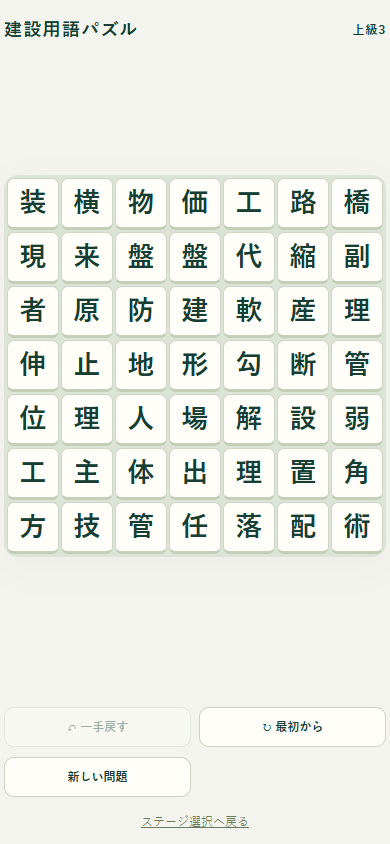
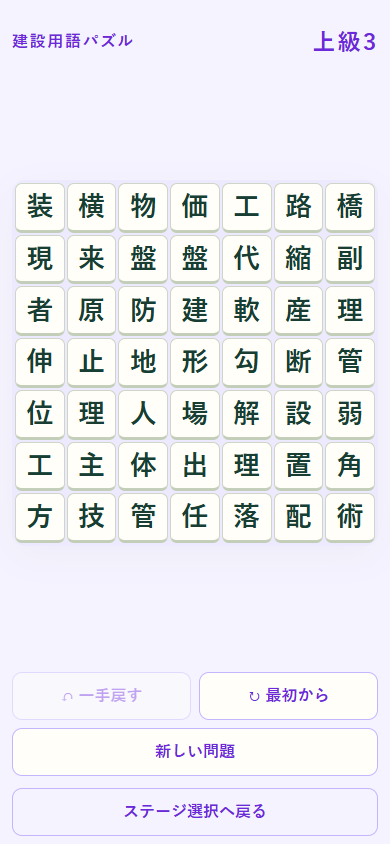
Add files via upload

diff --git a/tests/engine.test.js b/tests/engine.test.js
@@ -3,19 +3,19 @@ import {Game,initialState,resolveSwap,matches,isClear,validateStage,canSelectSta
 const dictionary=JSON.parse(fs.readFileSync(new URL('../data/terms.json',import.meta.url))),{stages}=JSON.parse(fs.readFileSync(new URL('../data/stages.json',import.meta.url)));
 const boards=['督圧丁測基転平監削量掛来筋水形張器矢掘配図準点出員','水床点土測筋工面型生準枠切施鉄点路盛養路足法盤土場','量径舗杭養面厚出盤枠路筋来法工装足施測型高鉄場図生'];
 const blank=()=>({board:Array(25).fill(null),used:{},completed:[]});
-function trial(stage,id){const g=new Game(stage,dictionary),word=Array.from(dictionary[id].word);for(const [to,c]of [[0,word[0]],[24,word[1]]]){const from=g.state.board.indexOf(c);[g.state.board[from],g.state.board[to]]=[g.state.board[to],g.state.board[from]];}const tails=Object.values(dictionary).filter(t=>t.word.startsWith(dictionary[id].word)&&Array.from(t.word).length>2).map(t=>Array.from(t.word)[2]);if(tails.includes(g.state.board[2])){const i=g.state.board.findIndex((c,i)=>i>2&&i<24&&!tails.includes(c));[g.state.board[2],g.state.board[i]]=[g.state.board[i],g.state.board[2]];}return g;}
+function trial(stage,id){const g=new Game(stage,dictionary),word=Array.from(dictionary[id].word);for(const [to,c]of [[3,word[0]],[24,word[1]]]){const from=g.state.board.indexOf(c);[g.state.board[from],g.state.board[to]]=[g.state.board[to],g.state.board[from]];}return g;}
 test('指定の初級3盤面と正解文字数・漢字個数が完全一致',()=>{assert.equal(stages.length,3);for(const [i,s]of stages.entries()){assert.deepEqual(s.initialBoard,Array.from(boards[i]));assert.deepEqual([...s.initialBoard].sort(),s.correctTerms.flatMap(id=>Array.from(dictionary[id].word)).sort());assert.equal(s.initialBoard.length,25);assert.equal(s.terms.length,s.correctTerms.length);assert.ok(s.terms.every(t=>t.term===dictionary[t.termId].word&&t.description));const g=new Game(s,dictionary);assert.deepEqual(g.state.completed,[]);assert.equal(g.history.length,0);}});
 test('3ステージ全正解ルートで全消し、全履歴を戻すと初期状態',()=>{for(const s of stages){assert.equal(validateStage(s,dictionary),true);const g=new Game(s,dictionary),initial=structuredClone(g.state);for(const a of s.solutionRoute){const r=g.move(a.from,a.to);assert.equal(r.changed,true);assert.equal(r.blocked,false);}assert.equal(isClear(g.state),true);assert.deepEqual(new Set(g.state.completed),new Set(s.correctTerms));assert.equal(g.history.length,s.solutionRoute.length);while(g.history.length)g.undo();assert.deepEqual(g.state,initial);}});
 test('初級2の路・点・土はそれぞれ2個、重複文字の交換・復元',()=>{const s=stages[1];for(const c of ['路','点','土'])assert.equal(s.initialBoard.filter(x=>x===c).length,2);const g=new Game(s,dictionary),initial=structuredClone(g.state);assert.equal(g.move(16,19).changed,false);const a=s.solutionRoute[0];g.move(a.from,a.to);g.undo();assert.deepEqual(g.state,initial);});
-test('全警告対象語の消去は残り文字を検証して拒否し、全状態を保持',()=>{for(const s of stages)for(const id of s.warningTerms){const g=trial(s,id),before=structuredClone(g.state),r=g.move(24,1);assert.equal(r.blocked,true,`${s.name}: ${id}`);assert.equal(r.changed,false);assert.deepEqual(g.state,before);assert.equal(g.history.length,0);}});
+test('全警告対象語の消去は残り文字を検証して拒否し、全状態を保持',()=>{for(const s of stages)for(const id of s.warningTerms){const g=trial(s,id),before=structuredClone(g.state),r=g.move(24,4);assert.equal(r.blocked,true,`${s.name}: ${id}`);assert.equal(r.changed,false);assert.deepEqual(g.state,before);assert.equal(g.history.length,0);}});
 test('初級2の測点は警告対象でなく正解として安全に消去',()=>{const s=stages[1],g=new Game(s,dictionary);for(const a of s.solutionRoute)g.move(a.from,a.to);assert.equal(g.state.used.surveyPoint,1);assert.equal(isClear(g.state),true);});
 test('水平器・基準点・監督員・配筋図・測量杭・鉄筋径・舗装厚・施工図の長語優先',()=>{for(const [long,short]of [['level','horizontal'],['reference','standard'],['supervisor','supervision'],['reinforcement','rebar'],['surveyStake','survey'],['rebarDiameter','steel'],['pavementThickness','pavement'],['constructionDrawing','construction']])for(const cells of [[0,1,2],[0,5,10]]){const s=blank(),word=Array.from(dictionary[long].word);s.board[cells[0]]=word[0];s.board[cells[1]]=word[1];s.board[24]=word[2];const r=resolveSwap(s,{allowedTerms:[{termId:short,maxUses:1},{termId:long,maxUses:1}]},dictionary,24,cells[2]);assert.deepEqual(r.state.completed,[long]);assert.equal(isClear(r.state),true);}});
 test('逆順・斜め・行またぎ・非連続は不成立',()=>{for(const cells of [[1,0],[5,0],[4,5],[0,6],[0,2]]){const s=blank();cells.forEach((i,n)=>s.board[i]=['丁','張'][n]);assert.equal(matches(s,stages[0],dictionary).length,0);}});
 test('複数用語の同時成立・共有マスを正しく記録し一度消す',()=>{const s=blank();s.board.splice(0,4,'丁','張','掛','矢');s.board[10]='転';s.board[24]='圧';assert.equal(resolveSwap(s,stages[0],dictionary,24,11).cleared.length,3);const t=blank();t.board.splice(5,3,'基','準','点');t.board[24]='測';const r=resolveSwap(t,stages[0],dictionary,24,2);assert.deepEqual(new Set(r.state.completed),new Set(['reference','surveyPoint']));assert.equal(isClear(r.state),true);});
 test('交換・消去・空白移動を1操作ずつ完全復元',()=>{const g=new Game(stages[0],dictionary);g.state=blank();g.state.board[0]='丁';g.state.board[24]='張';const before=structuredClone(g.state);g.move(24,1);assert.equal(g.history.length,1);assert.equal(isClear(g.state),true);g.undo();assert.deepEqual(g.state,before);g.move(24,12);assert.equal(g.state.board[24],null);g.undo();assert.deepEqual(g.state,before);});
-test('拒否操作は既存の履歴を消費・追加しない',()=>{const g=trial(stages[0],'horizontal');g.history=[initialState(stages[0])];const before=structuredClone(g.state),history=structuredClone(g.history);for(let n=0;n<2;n++){assert.equal(g.move(24,1).blocked,true);assert.deepEqual(g.state,before);assert.deepEqual(g.history,history);}g.undo();assert.deepEqual(g.state,initialState(stages[0]));});
+test('拒否操作は既存の履歴を消費・追加しない',()=>{const g=trial(stages[0],'horizontal');g.history=[initialState(stages[0])];const before=structuredClone(g.state),history=structuredClone(g.history);for(let n=0;n<2;n++){assert.equal(g.move(24,4).blocked,true);assert.deepEqual(g.state,before);assert.deepEqual(g.history,history);}g.undo();assert.deepEqual(g.state,initialState(stages[0]));});
 test('最初からで各ステージの全状態を初期化',()=>{for(const s of stages){const g=new Game(s,dictionary);for(const a of s.solutionRoute)g.move(a.from,a.to);g.reset();assert.deepEqual(g.state,initialState(s));assert.equal(g.history.length,0);assert.equal(g.undo(),false);}});
-test('中級・上級設定では警告なく消去し、手動で戻せる',()=>{for(const difficulty of ['intermediate','advanced'])for(const s of stages){const g=trial({...s,difficulty},s.warningTerms[0]),before=structuredClone(g.state),r=g.move(24,1);assert.equal(r.blocked,false);assert.equal(g.state.board.filter(Boolean).length<25,true);g.undo();assert.deepEqual(g.state,before);}});
+test('中級・上級設定では警告なく消去し、手動で戻せる',()=>{for(const difficulty of ['intermediate','advanced'])for(const s of stages){const g=trial({...s,difficulty},s.warningTerms[0]),before=structuredClone(g.state),r=g.move(24,4);assert.equal(r.blocked,false);assert.equal(g.state.board.filter(Boolean).length<25,true);g.undo();assert.deepEqual(g.state,before);}});
 test('全開放・順次開放の切替をデータ設定で行える',()=>{const completed=new Set();assert.equal(canSelectStage(stages,2,completed,'all'),true);assert.equal(canSelectStage(stages,1,completed,'sequential'),false);assert.equal(canSelectStage(stages,0,completed,'sequential'),true);completed.add(stages[0].id);assert.equal(canSelectStage(stages,1,completed,'sequential'),true);assert.equal(canSelectStage(stages,2,completed,'sequential'),false);assert.equal(canSelectStage(stages,3,completed),false);});
 test('不正な問題・正解語・ルート・難易度を検出',()=>{for(const mutate of [s=>s.initialBoard.pop(),s=>s.initialBoard[0]='猫',s=>s.allowedTerms[0].maxUses=0,s=>s.correctTerms=['unknown'],s=>s.solutionRoute=[],s=>s.solutionRoute.pop(),s=>s.solutionRoute[0].from=-1,s=>s.difficulty='invalid']){const s=structuredClone(stages[0]);mutate(s);assert.throws(()=>validateStage(s,dictionary));}});
 

diff --git a/js/app.js b/js/app.js
@@ -18,11 +18,11 @@ function requestProblem(id){return new Promise(resolve=>{
 async function chooseStage(id){const index=stages.findIndex(s=>s.id===id);if(busy||!canSelectStage(stages,index,completedStages,unlockMode))return;version++;cancelDrag();busy=true;selected=null;$('generation-status').textContent='問題を準備しています…';document.querySelectorAll('.stage-button,.clear-controls button').forEach(b=>b.disabled=true);if(game)renderBoard();
   const stage=await requestProblem(id);game=new Game(stage,dictionary);lastHint=null;previousProblems.set(id,{hash:stage.setHash,board:JSON.stringify(stage.initialBoard)});busy=false;screen='play';$('generation-status').textContent='';$('hint-message').textContent='';document.querySelectorAll('.clear-controls button').forEach(b=>b.disabled=false);$('stage-name').textContent=stage.name;render();
 }
-function showSelection(){if(busy)return;version++;cancelDrag();selected=null;screen='selection';$('play-screen').hidden=true;$('clear-screen').hidden=true;$('selection-screen').hidden=false;
-  $('stage-buttons').replaceChildren(...stages.map((stage,index)=>{const button=node('button','stage-button');button.append(node('strong','',stage.name),node('small','',stage.subtitle));button.type='button';button.disabled=!canSelectStage(stages,index,completedStages,unlockMode);button.addEventListener('click',()=>chooseStage(stage.id));return button;}));window.scrollTo(0,0);$('selection-title').focus({preventScroll:true});
+function showSelection(){if(busy)return;version++;cancelDrag();selected=null;screen='selection';delete document.body.dataset.difficulty;$('play-screen').hidden=true;$('clear-screen').hidden=true;$('selection-screen').hidden=false;
+  $('stage-buttons').replaceChildren(...stages.map((stage,index)=>{const button=node('button','stage-button');button.append(node('strong','',stage.name),node('small','',stage.subtitle));button.dataset.difficulty=({5:'beginner',6:'intermediate',7:'advanced'})[stage.gridSize];button.type='button';button.disabled=!canSelectStage(stages,index,completedStages,unlockMode);button.addEventListener('click',()=>chooseStage(stage.id));return button;}));window.scrollTo(0,0);$('selection-title').focus({preventScroll:true});
 }
 function renderBoard(board=game.state.board){
-  const n=game.stage.gridSize||5;$('play-screen').dataset.gridSize=n;$('board').style.setProperty('--grid-size',n);$('board').setAttribute('aria-label',`${n}行${n}列の漢字盤面`);
+  const n=game.stage.gridSize||5;document.body.dataset.difficulty=game.stage.difficulty;$('play-screen').dataset.hint=MODES.find(m=>m.id===game.stage.id).hint;$('play-screen').dataset.gridSize=n;$('board').style.setProperty('--grid-size',n);$('board').setAttribute('aria-label',`${n}行${n}列の漢字盤面`);
   $('board').replaceChildren(...board.map((c,i)=>{const tile=node('button',`tile${c?'':' empty'}${selected===i?' selected':''}`);tile.append(node('span','',c||''));tile.dataset.index=i;tile.type='button';tile.disabled=busy;tile.setAttribute('aria-label',`${position(i)}、${c||'空白'}`);tile.setAttribute('aria-pressed',String(selected===i));tile.addEventListener('pointerdown',e=>startDrag(e,i));tile.addEventListener('click',e=>{if(e.detail===0)tap(i);});return tile;}));
   $('board').setAttribute('aria-busy',String(busy));$('undo').disabled=busy||!game.history.length;$('reset').disabled=busy;$('back-to-selection').disabled=busy;
   $('new-problem').disabled=busy;$('hint').disabled=busy;$('hint').hidden=!MODES.find(m=>m.id===game.stage.id).hint;

diff --git a/js/engine.js b/js/engine.js
@@ -20,10 +20,21 @@ export function matches(state,stage,dictionary){
  return found.sort((a,b)=>b.cells.length-a.cells.length||a.cells[0]-b.cells[0]||a.direction.localeCompare(b.direction));
 }
 export function swap(state,from,to){if(![from,to].every(i=>Number.isInteger(i)&&i>=0&&i<state.board.length))throw new Error('交換位置が不正です');if(from===to||state.board[from]===state.board[to])return state;const next=structuredClone(state);[next.board[from],next.board[to]]=[next.board[to],next.board[from]];return next;}
+// Reserve one assembly location per remaining selected word. Prefer the most
+// advanced prefix; a separate occurrence remains eligible for normal erasure.
+export function pendingPrefixes(state,stage,dictionary,found){
+ const n=gridSize(stage),held=new Set(),counts={};state.board.filter(Boolean).forEach(c=>counts[c]=(counts[c]||0)+1);
+ for(const id of stage.correctTerms||[]){if(state.used[id])continue;const letters=Array.from(dictionary[id].word),need={};letters.forEach(c=>need[c]=(need[c]||0)+1);if(!Object.entries(need).every(([c,k])=>(counts[c]||0)>=k))continue;
+  const candidates=found.filter(m=>m.cells.length<=letters.length&&dictionary[id].word.startsWith(dictionary[m.termId].word)).map(m=>{const start=m.cells[0],step=m.direction==='horizontal'?1:n;if(m.direction==='horizontal'?start%n+letters.length>n:Math.floor(start/n)+letters.length>n)return null;let progress=0;while(progress<letters.length&&state.board[start+progress*step]===letters[progress])progress++;return {start,direction:m.direction,progress};}).filter(Boolean).sort((a,b)=>b.progress-a.progress||a.start-b.start||a.direction.localeCompare(b.direction));
+  const anchor=candidates[0];if(!anchor)continue;
+  for(const m of found)if(m.cells[0]===anchor.start&&m.direction===anchor.direction&&m.cells.length<letters.length&&dictionary[id].word.startsWith(dictionary[m.termId].word))held.add(m);
+ }return held;
+}
 export function resolveSwap(state,stage,dictionary,from,to){
  const exchanged=swap(state,from,to);if(exchanged===state)return {state,changed:false,cleared:[],exchangedBoard:state.board};
  const next=structuredClone(exchanged),cleared=[],limits=new Map(stage.allowedTerms.map(t=>[t.termId,t.maxUses]));
- for(const m of matches(exchanged,stage,dictionary)){if(cleared.some(long=>long.cells.length>m.cells.length&&m.cells.every(i=>long.cells.includes(i))))continue;if((next.used[m.termId]||0)>=limits.get(m.termId))continue;next.used[m.termId]=(next.used[m.termId]||0)+1;next.completed.push(m.termId);cleared.push(m);}
+ const found=matches(exchanged,stage,dictionary),held=pendingPrefixes(exchanged,stage,dictionary,found);
+ for(const m of found){if(held.has(m))continue;if(cleared.some(long=>long.cells.length>m.cells.length&&m.cells.every(i=>long.cells.includes(i))))continue;if((next.used[m.termId]||0)>=limits.get(m.termId))continue;next.used[m.termId]=(next.used[m.termId]||0)+1;next.completed.push(m.termId);cleared.push(m);}
  for(const m of cleared)for(const i of m.cells)next.board[i]=null;return {state:next,changed:true,cleared,exchangedBoard:exchanged.board};
 }
 export function isClear(state){return state.board.every(c=>c===null);}

diff --git a/css/style.css b/css/style.css
@@ -15,3 +15,33 @@ dialog{width:min(440px,calc(100vw - 32px));border:1px solid #d4ddce;border-radiu
 #play-screen[data-grid-size="7"] .board { padding: 3px; gap: 2px; }
 #play-screen[data-grid-size="7"] .tile { font-size: clamp(26px, min(7vw, 8vh), 64px); border-radius: 7px; }
 #play-screen[data-grid-size="7"] { padding-inline: 1vw; }
+/* Keep beginner colors; apply tier accents outside neutral character tiles. */
+body[data-difficulty="intermediate"] { --tier-accent:#2563eb; --tier-bg:#eff6ff; --tier-frame:#dbeafe; --tier-border:#93c5fd; }
+body[data-difficulty="advanced"] { --tier-accent:#6d28d9; --tier-bg:#f5f3ff; --tier-frame:#ede9fe; --tier-border:#c4b5fd; }
+body[data-difficulty="intermediate"],body[data-difficulty="advanced"] { background:var(--tier-bg); }
+body[data-difficulty="intermediate"] .play-header,body[data-difficulty="advanced"] .play-header { color:var(--tier-accent); }
+body[data-difficulty="intermediate"] .board,body[data-difficulty="advanced"] .board { background:var(--tier-frame); }
+body[data-difficulty="intermediate"] .controls button,body[data-difficulty="advanced"] .controls button,
+body[data-difficulty="intermediate"] .selection-back,body[data-difficulty="advanced"] .selection-back,
+body[data-difficulty="intermediate"] .clear-controls button,body[data-difficulty="advanced"] .clear-controls button { color:var(--tier-accent); border-color:var(--tier-border); }
+body[data-difficulty="intermediate"] .clear-controls .primary,body[data-difficulty="advanced"] .clear-controls .primary { background:var(--tier-accent);color:white; }
+.stage-button[data-difficulty="intermediate"] { color:#2563eb;border-color:#93c5fd;background:#eff6ff; }
+.stage-button[data-difficulty="advanced"] { color:#6d28d9;border-color:#c4b5fd;background:#f5f3ff; }
+@media(max-width:540px) {
+ #play-screen[data-grid-size] { --board-size:min(calc(100vw - 24px),calc(100svh - 300px),780px); padding-inline:12px; }
+ .play-header { height:84px; padding-block:12px; }
+ .play-header h1 { font-size:16px; }
+ .stage-label { font-size:clamp(22px,6vw,26px);font-weight:800;line-height:1.4; }
+ .controls { height:112px;gap:8px;padding:4px 0; }
+ .controls button { min-height:48px;font-size:16px;padding:10px 12px; }
+ .controls:has(#hint[hidden]) #new-problem { grid-column:1 / -1; }
+ .selection-back { width:var(--board-size);max-width:100%;height:48px;min-height:48px;flex-shrink:0;margin:8px auto;border:1px solid #cad4c4;border-radius:10px;background:transparent;font-size:16px;font-weight:700;text-decoration:none;padding:10px 12px; }
+}
+@media(max-width:540px) and (max-height:540px) {
+ #play-screen { height:auto;min-height:100svh; }
+ #play-screen[data-grid-size] { --board-size:min(calc(100vw - 24px),260px); }
+ .play-area { flex:none; }
+}
+body[data-difficulty="intermediate"] .controls button:hover:not(:disabled),body[data-difficulty="advanced"] .controls button:hover:not(:disabled) { background:var(--tier-frame); }
+.stage-button[data-difficulty="intermediate"]:hover:not(:disabled) { background:#dbeafe; }
+.stage-button[data-difficulty="advanced"]:hover:not(:disabled) { background:#ede9fe; }

diff --git a/tests/prefix.test.js b/tests/prefix.test.js
@@ -1,0 +1,10 @@
+import {test} from 'node:test';import assert from 'node:assert/strict';import {Game,resolveSwap,initialState} from '../js/engine.js';
+const dictionary={quality:{word:'品質'},qualityManagement:{word:'品質管理'},qualityStandard:{word:'品質管理基準'},survey:{word:'測量'},stake:{word:'測量杭'},construction:{word:'施工'},management:{word:'施工管理'},rebar:{word:'配筋'},drawing:{word:'配筋図'},mallet:{word:'掛矢'}};
+function stage(long,n){return {gridSize:n,difficulty:({5:'beginner',6:'intermediate',7:'advanced'})[n],deadEndWarning:false,correctTerms:[long],initialBoard:Array(n*n).fill(null),allowedTerms:Object.keys(dictionary).map(termId=>({termId,maxUses:2}))};}
+test('全難易度・縦横:品質と品質管理、測量、施工、配筋を保留し長語は全消去',()=>{
+ for(const n of [5,6,7])for(const step of [1,n])for(const [long,short]of [['stake','survey'],['management','construction'],['drawing','rebar'],...(n>=6?[['qualityStandard','quality'],['qualityStandard','qualityManagement']]:[])]){const s=stage(long,n),letters=Array.from(dictionary[long].word),prefix=Array.from(dictionary[short].word);letters.forEach((c,i)=>s.initialBoard[n*n-1-i]=c);const g=new Game(s,dictionary),before=structuredClone(g.state);for(let i=0;i<prefix.length;i++){const from=g.state.board.findIndex((c,j)=>c===letters[i]&&j!==i*step);const r=g.move(from,i*step);assert.equal(r.cleared.length,0);assert.equal(r.blocked,false);}assert.equal(g.state.board[0],letters[0]);assert.deepEqual(g.state.completed,[]);for(let i=prefix.length;i<letters.length;i++){if(g.state.used[long])break;if(g.state.board[i*step]===letters[i])continue;const from=g.state.board.findIndex((c,j)=>c===letters[i]&&j!==i*step);g.move(from,i*step);}assert.deepEqual(g.state.completed,[long]);assert.ok(g.state.board.every(c=>c===null));while(g.undo()){}assert.deepEqual(g.state,before);}
+});
+test('別位置の同じ短語と無関係な短語は消去し、組み立て位置だけ保留',()=>{
+ const s=stage('stake',7);s.initialBoard[0]='測';s.initialBoard[1]='量';s.initialBoard[10]='測';s.initialBoard[48]='量';s.initialBoard[25]='杭';s.initialBoard[35]='掛';s.initialBoard[36]='矢';const g=new Game(s,dictionary),r=g.move(48,11);assert.deepEqual(new Set(r.cleared.map(m=>m.termId)),new Set(['survey','mallet']));assert.equal(g.state.board[0],'測');assert.equal(g.state.board[1],'量');assert.equal(g.state.board[10],null);g.undo();assert.deepEqual(g.state,initialState(s));
+});
+test('長語消去済み・盤端で延長不可・必要な文字不足なら短語を通常消去',()=>{for(const variant of ['used','edge','missing']){const s=stage('stake',7);const start=variant==='edge'?5:0;s.initialBoard[start]='測';s.initialBoard[48]='量';if(variant!=='missing')s.initialBoard[25]='杭';const state=initialState(s);if(variant==='used')state.used.stake=1;const r=resolveSwap(state,s,dictionary,48,start+1);assert.ok(r.cleared.some(m=>m.termId==='survey'));}});

diff --git a/tests/generator.test.js b/tests/generator.test.js
@@ -18,13 +18,13 @@ test('生成試行を使い切っても異なる安全な予備問題で開始',
 test('ヒントは残る選択用語だけを表示し、位置や完成済み語を教えない',()=>{const s=fallbacks[0],g=new Game(s,dictionary);const initialHint=remainingHint(g.state,s,dictionary);assert.ok(s.correctTerms.some(id=>dictionary[id].word===initialHint));for(const a of s.solutionRoute){g.move(a.from,a.to);const word=remainingHint(g.state,s,dictionary);if(word){const id=s.correctTerms.find(id=>dictionary[id].word===word);assert.ok(!g.state.used[id]);}}assert.equal(remainingHint(g.state,s,dictionary),null);});
 test('正解セット外の別ルートも辞書全体で許可する',()=>{
  const dictionary={long:{word:'施工管理'},short:{word:'施工'},rest:{word:'管理'}};
- const board=Array(25).fill(null);board[0]='施';board[10]='管';board[11]='理';board[24]='工';
+ const board=Array(25).fill(null);board[3]='施';board[10]='管';board[11]='理';board[24]='工';
  const s={id:'alt',name:'alt',difficulty:'beginner',gridSize:5,solverScope:'dictionary',correctTerms:['long'],initialBoard:board};s.allowedTerms=allowedTermsFor(s.initialBoard,dictionary);
- const g=new Game(s,dictionary),r=g.move(24,1);assert.equal(r.blocked,false);assert.ok(r.cleared.some(m=>m.termId==='short'));assert.notEqual(solveRemaining(g.state,s,dictionary),null);assert.ok(!s.correctTerms.includes('short'));
+ const g=new Game(s,dictionary),r=g.move(24,4);assert.equal(r.blocked,false);assert.ok(r.cleared.some(m=>m.termId==='short'));assert.notEqual(solveRemaining(g.state,s,dictionary),null);assert.ok(!s.correctTerms.includes('short'));
 });
 test('禁止語固定ではなく同じ辞書語でも残り文字で可否が変わる',()=>{
  const dictionary={short:{word:'水平'},long:{word:'水平器'},other:{word:'器械'}};
- for(const [extra,blocked]of [[false,true],[true,false]]){const board=Array(25).fill(null);board[0]='水';board[10]='器';board[24]='平';if(extra)board[11]='械';const s={id:'x',name:'x',difficulty:'beginner',gridSize:5,solverScope:'dictionary',correctTerms:['long'],initialBoard:board};s.allowedTerms=allowedTermsFor(s.initialBoard,dictionary);const g=new Game(s,dictionary);assert.equal(g.move(24,1).blocked,blocked);}
+ for(const [extra,blocked]of [[false,true],[true,false]]){const board=Array(25).fill(null);board[3]='水';board[10]='器';board[24]='平';if(extra)board[11]='械';const s={id:'x',name:'x',difficulty:'beginner',gridSize:5,solverScope:'dictionary',correctTerms:['long'],initialBoard:board};s.allowedTerms=allowedTermsFor(s.initialBoard,dictionary);const g=new Game(s,dictionary);assert.equal(g.move(24,4).blocked,blocked);}
 });
 test('辞書の重複・文字数不一致を読み込みで検出',()=>{assert.throws(()=>createDictionary([{term:'丁張',length:3,description:'a',level:'beginner1'}]));});
 

diff --git a/tests/advanced.test.js b/tests/advanced.test.js
@@ -11,7 +11,7 @@ test('上級各15問:初期成立なし・49文字・別セットと配置・実
 });
 test('上級は手詰まりでも同時消去、履歴と空白を完全復元、6字最長優先',()=>{
  const words={long:{word:'品質管理基準'},mid:{word:'品質管理'},short:{word:'品質'},other:{word:'測量'}};
- for(const mode of MODES.filter(m=>m.gridSize===7)){const board=Array(49).fill(null);board[0]='品';board[48]='質';board[20]='管';board[22]='理';board[24]='基';board[26]='準';board[14]='測';board[15]='量';const stage={gridSize:7,difficulty:'advanced',deadEndWarning:mode.deadEndWarning,solverScope:'dictionary',correctTerms:['long','other'],initialBoard:board,allowedTerms:allowedTermsFor(board,words,7)};const g=new Game(stage,words),before=structuredClone(g.state),r=g.move(48,1);assert.equal(r.blocked,false);assert.equal(r.cleared.length,2);assert.equal(solveRemaining(g.state,stage,words),null);g.undo();assert.deepEqual(g.state,before);g.move(48,47);assert.equal(g.state.board[48],null);g.undo();assert.deepEqual(g.state,before);
+ for(const mode of MODES.filter(m=>m.gridSize===7)){const board=Array(49).fill(null);board[5]='品';board[48]='質';board[20]='管';board[22]='理';board[24]='基';board[26]='準';board[14]='測';board[15]='量';const stage={gridSize:7,difficulty:'advanced',deadEndWarning:mode.deadEndWarning,solverScope:'dictionary',correctTerms:['long','other'],initialBoard:board,allowedTerms:allowedTermsFor(board,words,7)};const g=new Game(stage,words),before=structuredClone(g.state),r=g.move(48,6);assert.equal(r.blocked,false);assert.equal(r.cleared.length,2);assert.equal(solveRemaining(g.state,stage,words),null);g.undo();assert.deepEqual(g.state,before);g.move(48,47);assert.equal(g.state.board[48],null);g.undo();assert.deepEqual(g.state,before);
  }
  const board=Array(49).fill(null);Array.from(words.long.word).slice(0,5).forEach((c,i)=>board[i]=c);board[48]='準';const stage={gridSize:7,difficulty:'advanced',initialBoard:board,allowedTerms:allowedTermsFor(board,words,7)};const g=new Game(stage,words);assert.deepEqual(g.move(48,5).cleared.map(m=>m.termId),['long']);assert.ok(isClear(g.state));
 });

diff --git a/README.md b/README.md
@@ -83,7 +83,7 @@ npm run validate
 npm run test:browser
 ```
 
-31件のロジック・辞書テストで、各モード50問ずつの計150生成問題の25文字構成、重複なし、初期完成語なし、異なる連続出題、実際の全消し、強制生成失敗時の予備問題、ヒント、辞書全体の別解を検証します。
+34件のロジック・辞書テストで、各モード50問ずつの計150生成問題の25文字構成、重複なし、初期完成語なし、異なる連続出題、実際の全消し、強制生成失敗時の予備問題、ヒント、辞書全体の別解を検証します。
 
 ブラウザテストはPlaywrightとインストール済みGoogle Chromeの開発環境で、静的サーバー起動後に実行します。実際のWorkerによる生成・新問題と、証明済みの再現用問題でPC／タッチによる6モード全消し、警告・復元、ヒント、演出・操作停止、戻す、リセット、再抽選、正方形表示、Worker失敗時の予備問題を確認します。
 
@@ -146,3 +146,17 @@ npm run test:browser
 今回の変更ファイル: js/generator.js、css/style.css、index.html、data/fallbacks.json、tests/advanced.test.js、tests/browser.mjs、tests/smoke-layout.mjs、scripts/build-fallbacks.mjs、README.md。既存18予備問題は前回配布ZIPと照合して一致しました。辞書本体、ゲームエンジン、初級・中級の設定は維持しています。
 
 残る課題: iOS Safari・Android実機の操作と低速端末の生成性能。6字語を多く含む問題は探索時間が増えるため、時間上限時は予備問題となります。
+
+## スマートフォン実機確認後の改修
+
+未消去の選択正解語の接頭語を、長語を組み立てる開始マス・方向で保留します。長語が完成すれば既存の最長語優先でまとめて消去します。同じ接頭語が複数位置にある場合は、続きの文字まで最も揃っている位置を組み立て場所とし、同率なら開始マス・方向の順で決定します。別位置の短語は通常判定します。長語の必要文字が残っていない場合や盤端で長語を置けない場合、完成済みの長語には保留を適用しません。保留中も通常の交換履歴を保存し、Undoとリセットは完全復元します。
+
+初級の従来色を保持し、中級は青（#2563EB／#EFF6FF）、上級は紫（#6D28D9／#F5F3FF）の背景・ヘッダー・盤面外枠・ボタンアクセントを適用。漢字マスの背景と文字コントラストは維持しています。選択カードにも難易度色を付け、選択画面へ戻るとプレイ中の背景色を解除します。
+
+スマホはステージ名22～26px・太字、操作ボタン16px・高さ48px。Undo／リセット、ヒント／新問題、アウトラインの選択画面へ戻るの3段構成です。ヒントなしは新問題を2段目全幅へ広げます。小画面ではボタン領域を確保して盤面を縮小し、非常に高さの低い画面では縦スクロールを許可します。PCのレイアウト寸法は維持しています。
+
+新ルールで旧証明ルートの途中消去が変わるため、中級2と上級2の予備問題各1問は初期配置・用語セットを保持したまま証明ルートだけ再作成しました。全27予備問題とランダム345問題を新ルールで再生検証済みです。
+
+変更ファイル: js/engine.js、js/app.js、css/style.css、data/fallbacks.json、tests/prefix.test.js、tests/engine.test.js、tests/generator.test.js、tests/intermediate.test.js、tests/advanced.test.js、tests/smoke-layout.mjs、README.md。旧警告テストは、保留対象にならない盤端の独立した短語を使う形へ更新し、警告ON/OFFの検証を維持しました。
+
+検証: 34テスト通過。新規の接頭語保留テストは全難易度・縦横・品質管理基準／測量杭／施工管理／配筋図・独立短語・Undoを対象にしています。320px・390pxの全9モードで、テーマ色、22px以上のステージ名、16px以上のボタン文字、高さ44px以上のタップ領域、ヒントなしの配置、正方形盤面、横はみ出しなし・画面内配置を確認。ブラウザでPCとタッチの全9モード全消し・ドラッグ・Undo・リセット・再生成を回帰確認します。実機での最終確認は引き続き必要です。
